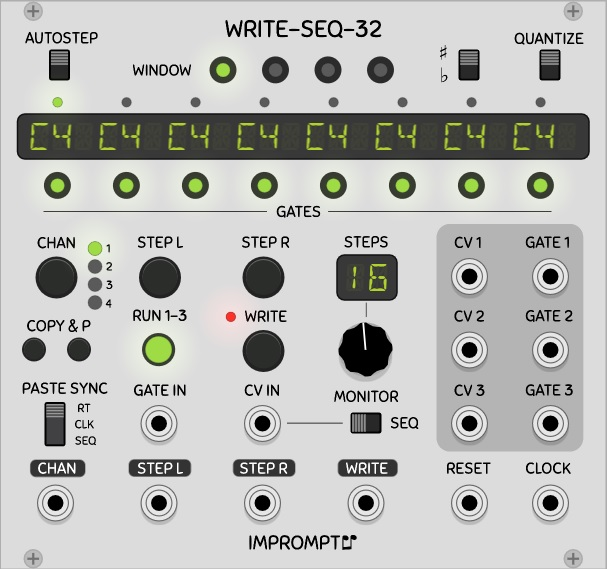
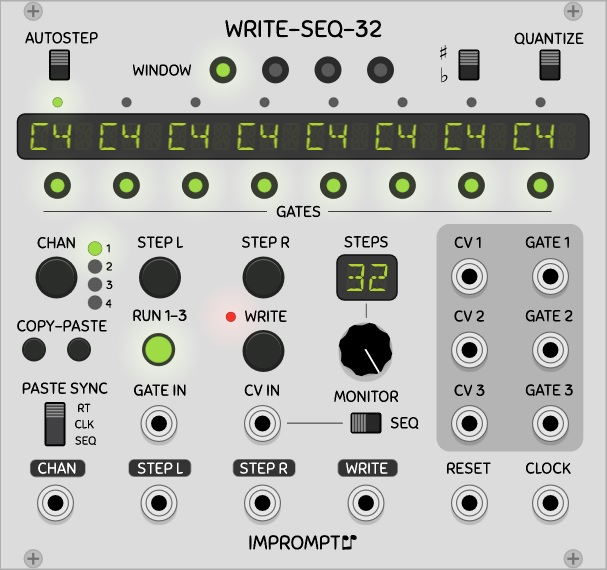
update images for readme, default 64 steps in WS64

diff --git a/src/WriteSeq64.cpp b/src/WriteSeq64.cpp
@@ -95,7 +95,7 @@ struct WriteSeq64 : Module {
 		indexChannel = 0;
 		for (int c = 0; c < 5; c++) {
 			indexStep[c] = 0;
-			indexSteps[c] = 32;
+			indexSteps[c] = 64;
 			for (int s = 0; s < 64; s++) {
 				cv[c][s] = 0.0f;
 				gates[c][s] = true;
@@ -115,7 +115,7 @@ struct WriteSeq64 : Module {
 		indexChannel = 0;
 		for (int c = 0; c < 5; c++) {
 			indexStep[c] = 0;
-			indexSteps[c] = 32;
+			indexSteps[c] = 64;
 			for (int s = 0; s < 64; s++) {
 				cv[c][s] = (randomUniform() *10.0f);
 				gates[c][s] = (randomUniform() > 0.5f);
